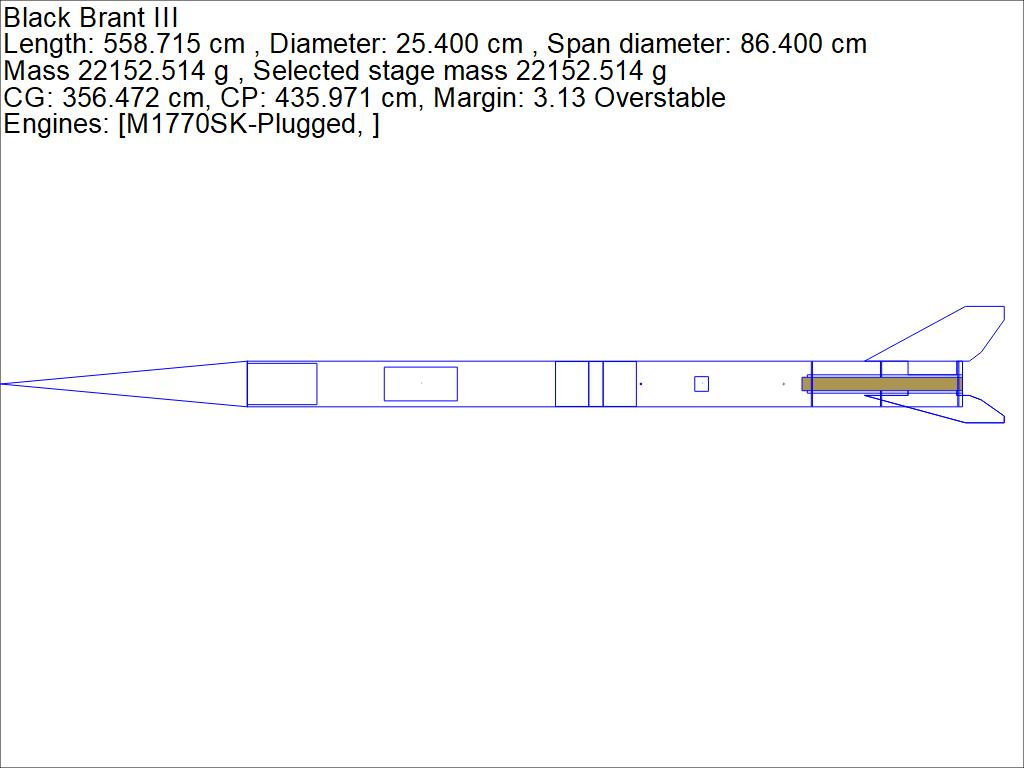
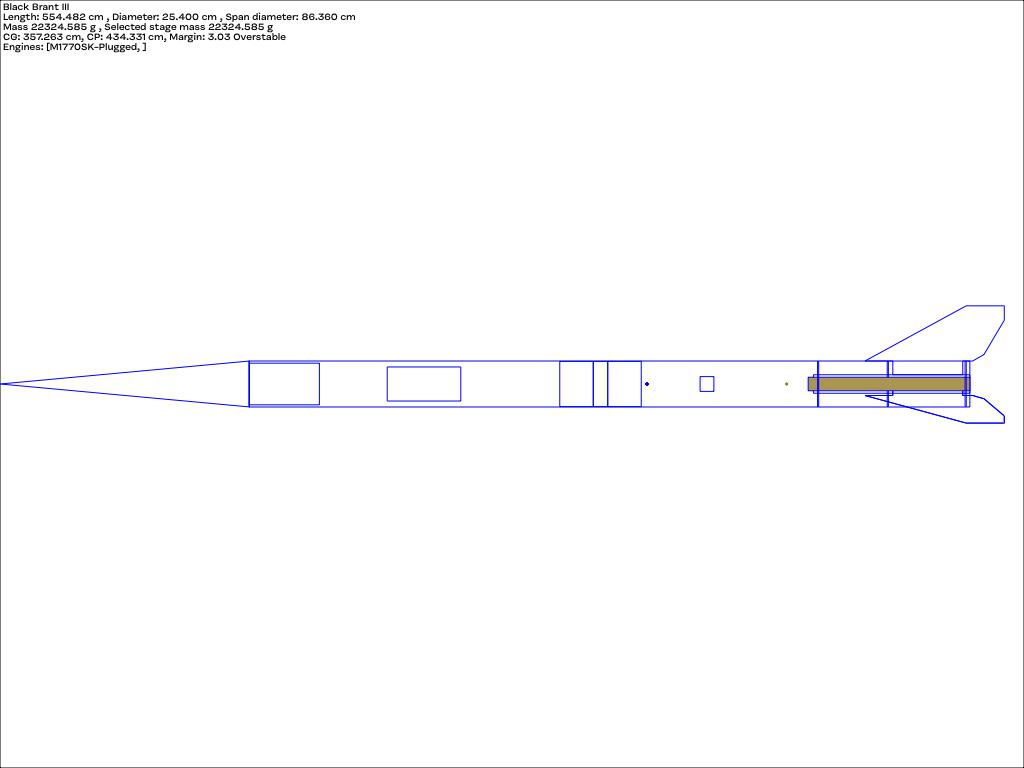
revised fins

diff --git a/content/project/level-3/index.md b/content/project/level-3/index.md
@@ -61,6 +61,12 @@ The overall design is provided here
 
 ![model](sim.jpg)
 
+The design is based on original drawings
+
+![Original fin design](./fins.jpg)
+
+![Brochure Drawing](bb3orig.png)
+
 ### Airframe
 
 The airframe is constructed from cardboard postal tubes 10" diameter and 3mm wall thickness. These tubes are wrapped in two layers of XXX fibreglass. The design uses two sections of airframe coupled together with an avionics bay. The aft section of the airframe is slotted to allow for "through the wall" mounting of the fins
@@ -69,7 +75,7 @@ The airframe is constructed from cardboard postal tubes 10" diameter and 3mm wal
 
 The fins are constructed using a core comprised of 3mm plywood laminted with carbon fibre. This core is "sandwiched" on both sides with 3mm plywood shaped to the profile of the original fin design shown here.
 
-![Original fin design](./fins.jpg)
+
 
 The complete fin assembly is then lamiminated with fibreglass. The Vacuum bagging technique is used for all fin lamination to ensure optimal epoxy/cloth ratios.
 
